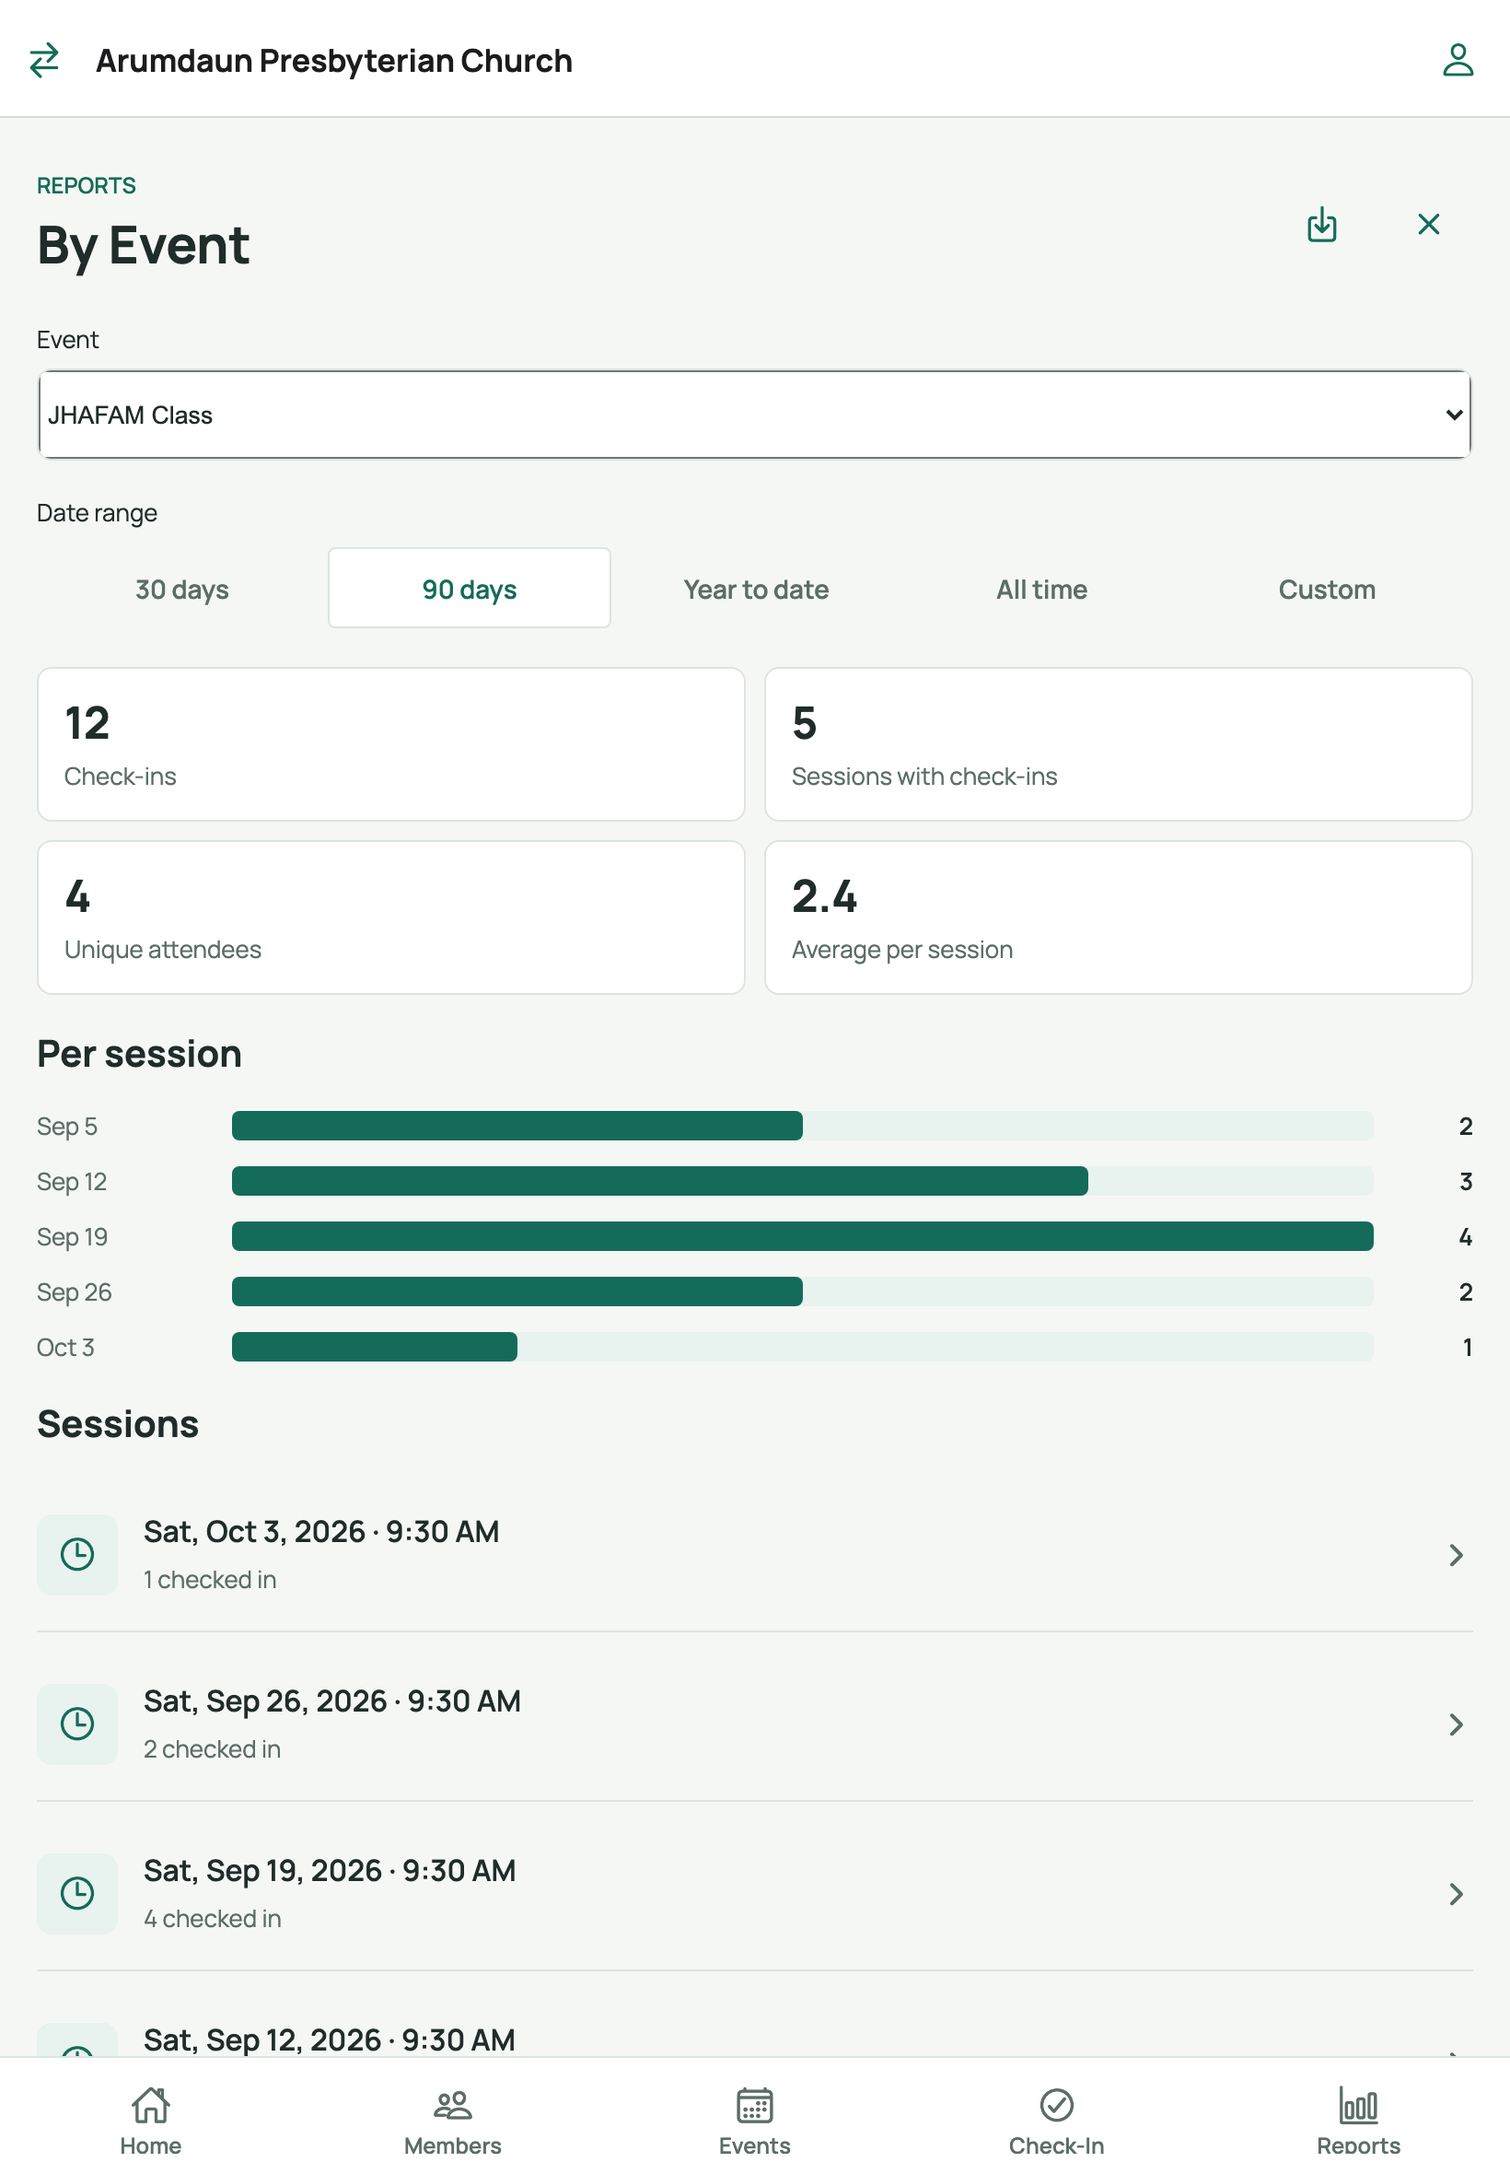
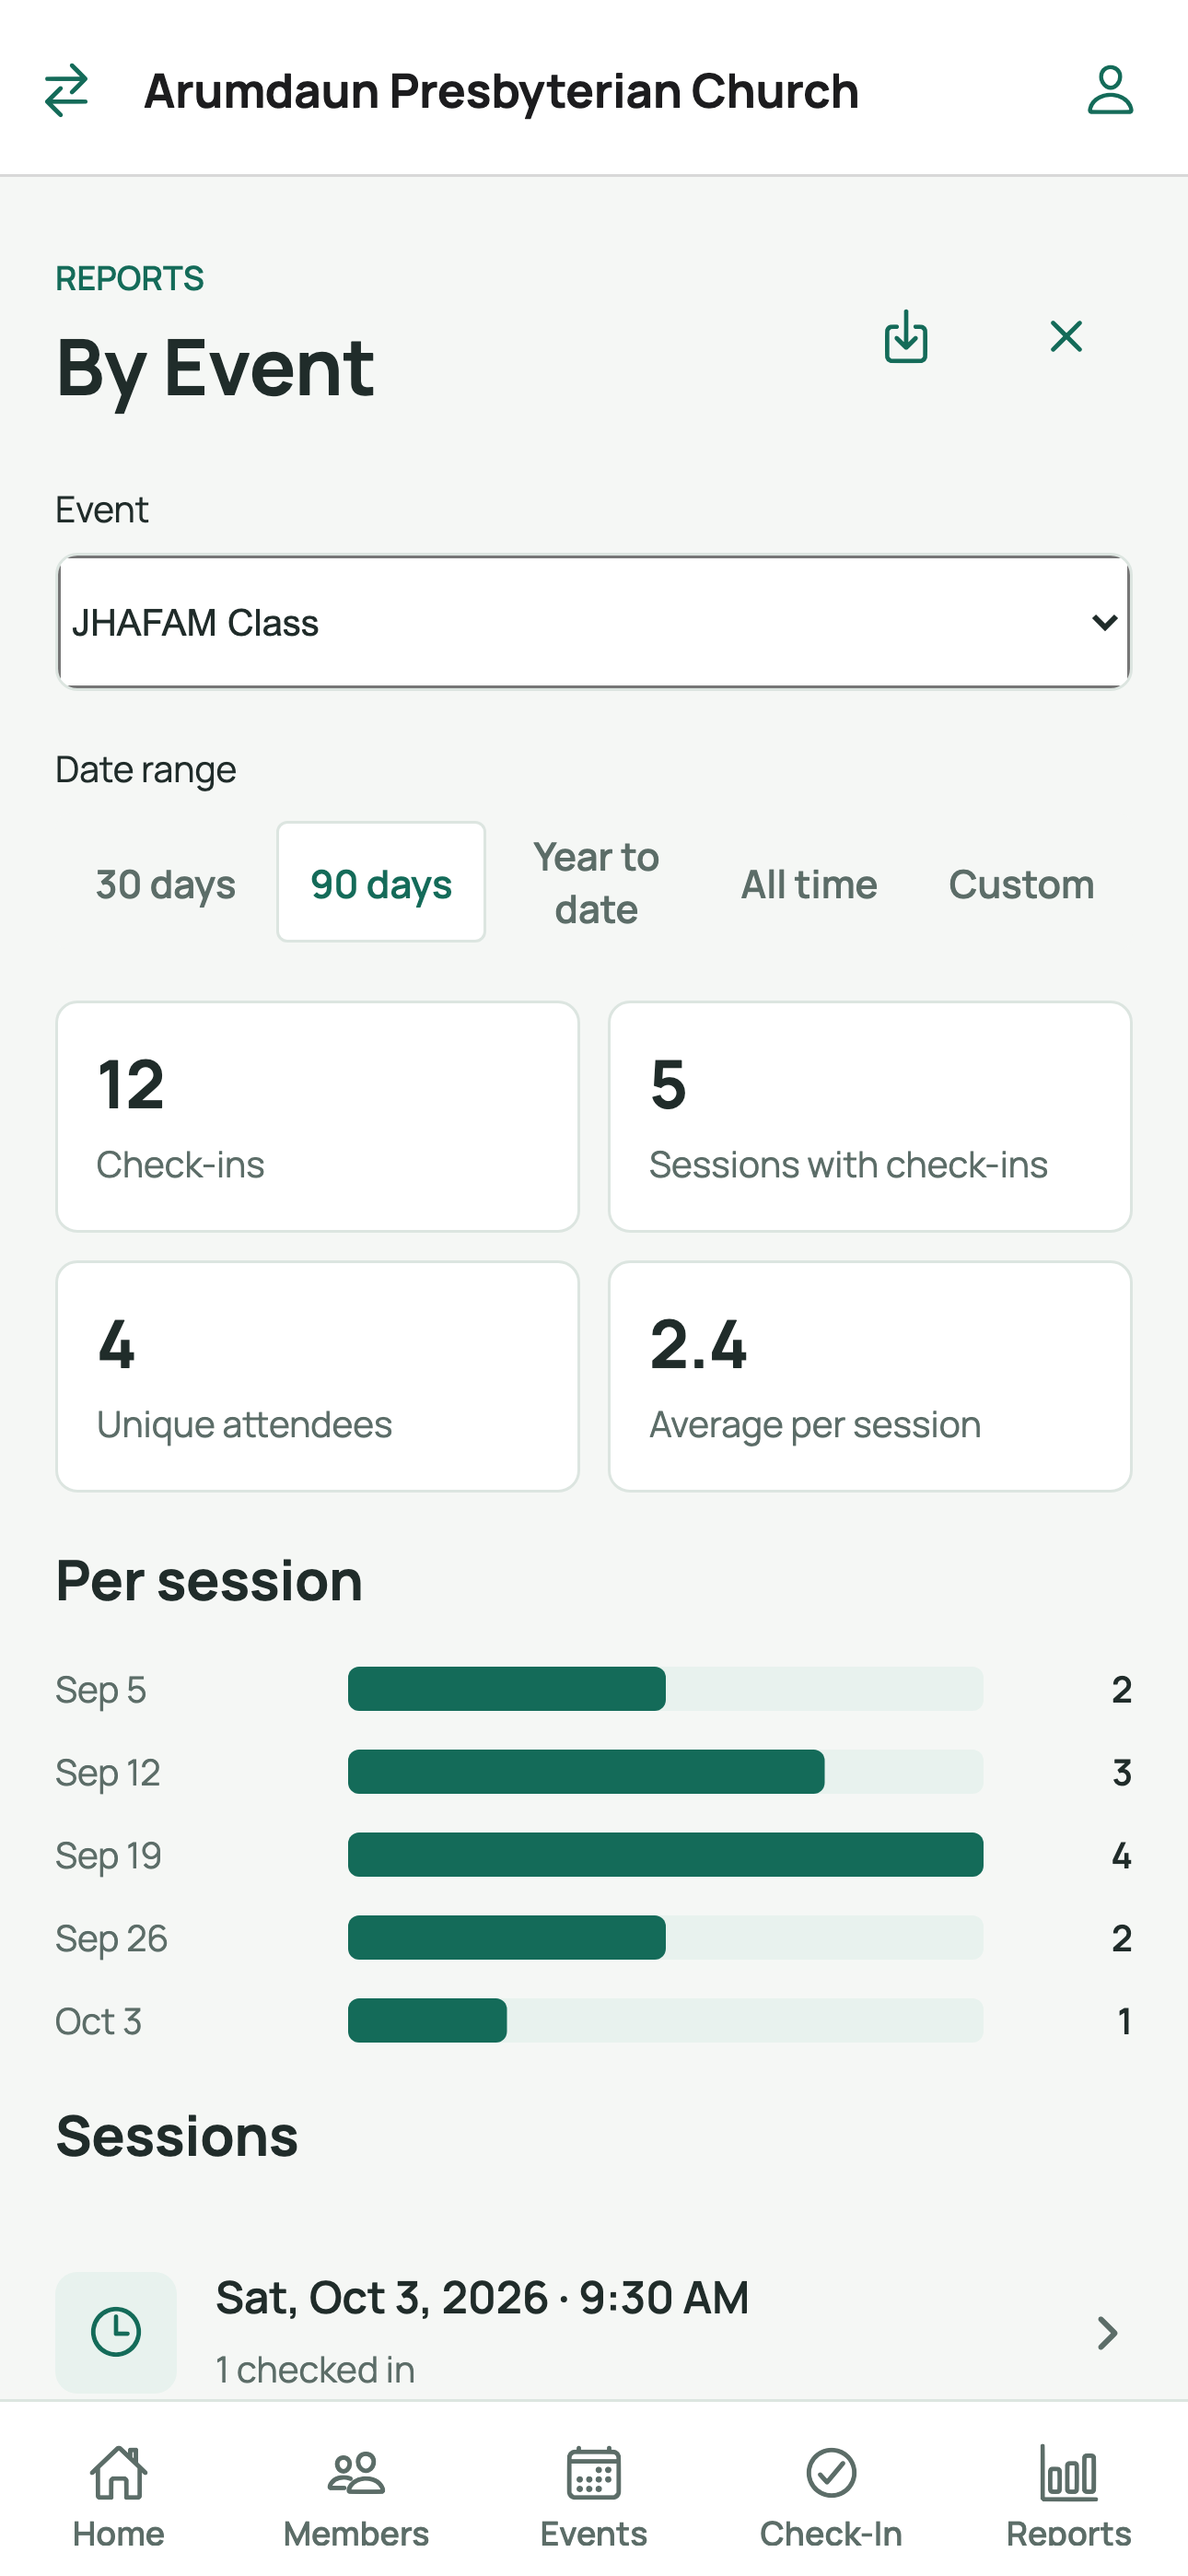
changing the guide with iphone screen image

diff --git a/src/JcChurchMobile/tests/e2e/screenshots.spec.ts b/src/JcChurchMobile/tests/e2e/screenshots.spec.ts
@@ -6,7 +6,7 @@ import fs from "node:fs";
 // Captures real app screenshots for the user guide (user-guide/images), using
 // Arumdaun Presbyterian Church with the JHAFAM and AFAM groups and members from
 // the real export (members CSV). Runs against the Expo web dev server on :8081
-// with the API mocked, at an iPad viewport (see playwright.tablet.config.ts).
+// with the API mocked, at an iPhone Pro Max viewport (see playwright.tablet.config.ts).
 
 const IMG = path.resolve(process.cwd(), "../../user-guide/images");
 fs.mkdirSync(IMG, { recursive: true });
@@ -429,7 +429,7 @@ test("guide screenshots: members list, sort/filter, import-export", async ({ pag
   await page.getByRole("button", { name: "Close" }).first().click({ force: true });
 });
 
-test("guide screenshots: duplicate members", async ({ page }) => {
+test("guide screenshots: duplicate members", async ({ page }, testInfo) => {
   const duplicateEmma = {
     ...emma,
     id: "member_emma_choi_duplicate",
@@ -449,11 +449,11 @@ test("guide screenshots: duplicate members", async ({ page }) => {
   await seedAdmin(page);
   await page.goto(`/church/${alpha.id}/duplicates`);
   await expect(page.getByText("1 of 1 possible duplicate pair")).toBeVisible();
-  await shot(page, "04-duplicates");
+  if (testInfo.project.name !== "ipad") await shot(page, "04-duplicates");
   await page.getByRole("button", { name: "Review possible duplicate Emma Choi" }).click();
   await expect(page.getByRole("heading", { name: "Resolve duplicate" })).toBeVisible();
   await expect(page.getByText(/2 check-ins will move/)).toBeVisible();
-  await shot(page, "04-duplicate-review");
+  await shot(page, testInfo.project.name === "ipad" ? "04-duplicate-review-ipad" : "04-duplicate-review");
 });
 
 test("guide screenshots: member detail, edit, groups, update link, registration code", async ({ page }) => {

diff --git a/src/JcChurchMobile/playwright.tablet.config.ts b/src/JcChurchMobile/playwright.tablet.config.ts
@@ -1,6 +1,6 @@
 import { defineConfig } from "@playwright/test";
 
-// Tablet-viewport config for capturing user-guide screenshots.
+// iPhone Pro Max viewport config for capturing user-guide screenshots.
 // Run: npx playwright test -c playwright.tablet.config.ts
 export default defineConfig({
   testDir: "./tests/e2e",
@@ -10,9 +10,10 @@ export default defineConfig({
   timeout: 90000,
   use: {
     baseURL: "http://localhost:8081",
-    // iPad (10th gen) portrait, 2x for crisp images.
-    viewport: { width: 820, height: 1180 },
-    deviceScaleFactor: 2,
+    // iPhone Pro Max portrait, 3x for crisp images.
+    viewport: { width: 430, height: 932 },
+    isMobile: true,
+    deviceScaleFactor: 3,
   },
-  projects: [{ name: "tablet", use: {} }],
+  projects: [{ name: "iphone-pro-max", use: {} }],
 });

diff --git a/src/JcChurchMobile/playwright.ipad.config.ts b/src/JcChurchMobile/playwright.ipad.config.ts
@@ -1,0 +1,18 @@
+import { defineConfig } from "@playwright/test";
+
+// iPad-viewport config for the duplicate-review comparison screenshot.
+// Run: npx playwright test -c playwright.ipad.config.ts
+export default defineConfig({
+  testDir: "./tests/e2e",
+  testMatch: "screenshots.spec.ts",
+  grep: /guide screenshots: duplicate members/,
+  fullyParallel: false,
+  workers: 1,
+  timeout: 90000,
+  use: {
+    baseURL: "http://localhost:8081",
+    viewport: { width: 820, height: 1180 },
+    deviceScaleFactor: 2,
+  },
+  projects: [{ name: "ipad", use: {} }],
+});

diff --git a/src/JcChurchMobile/src/screens/UserGuide.tsx b/src/JcChurchMobile/src/screens/UserGuide.tsx
@@ -45,7 +45,7 @@ export default function UserGuide() {
         resizeMode="contain"
         style={{
           width: imageWidth,
-          height: imageWidth * (1180 / 820),
+          height: imageWidth * (932 / 430),
           marginVertical: 10,
           borderWidth: 1,
           borderColor: colors.line,

diff --git a/user-guide/04-clean-up-duplicate-members.md b/user-guide/04-clean-up-duplicate-members.md
@@ -27,7 +27,13 @@ filter pairs by group or subgroup and change name order.
 1. Tap **Review** for a possible pair. The **Resolve duplicate** sheet compares
    both member records.
 
-![Resolve duplicate sheet showing the two member cards, field choices, attendance preview, and Merge button](images/04-duplicate-review.png)
+**iPhone Pro Max**
+
+![Resolve duplicate sheet on an iPhone Pro Max showing the two member cards, field choices, attendance preview, and Merge button](images/04-duplicate-review.png)
+
+**iPad**
+
+![Resolve duplicate sheet on an iPad showing the two member cards, field choices, attendance preview, and Merge button](images/04-duplicate-review-ipad.png)
 
 2. Tap the member card you want to keep. The selected card is marked
    **Keeping**; the other member will be archived.

diff --git a/user-guide/README.md b/user-guide/README.md
@@ -32,7 +32,7 @@ After signing in and choosing a church, the app shows five tabs at the bottom:
 The header shows the church name, a **switch church** button ([<]) when you
 belong to more than one church, and your account chip (name/photo) on the right.
 
-> All screenshots in this guide were captured on a tablet (iPad) screen. The app
+> All screenshots in this guide were captured on an iPhone Pro Max screen. The app
 > looks and works the same on phones and on the web; the layout adjusts to the
 > screen size.
 
